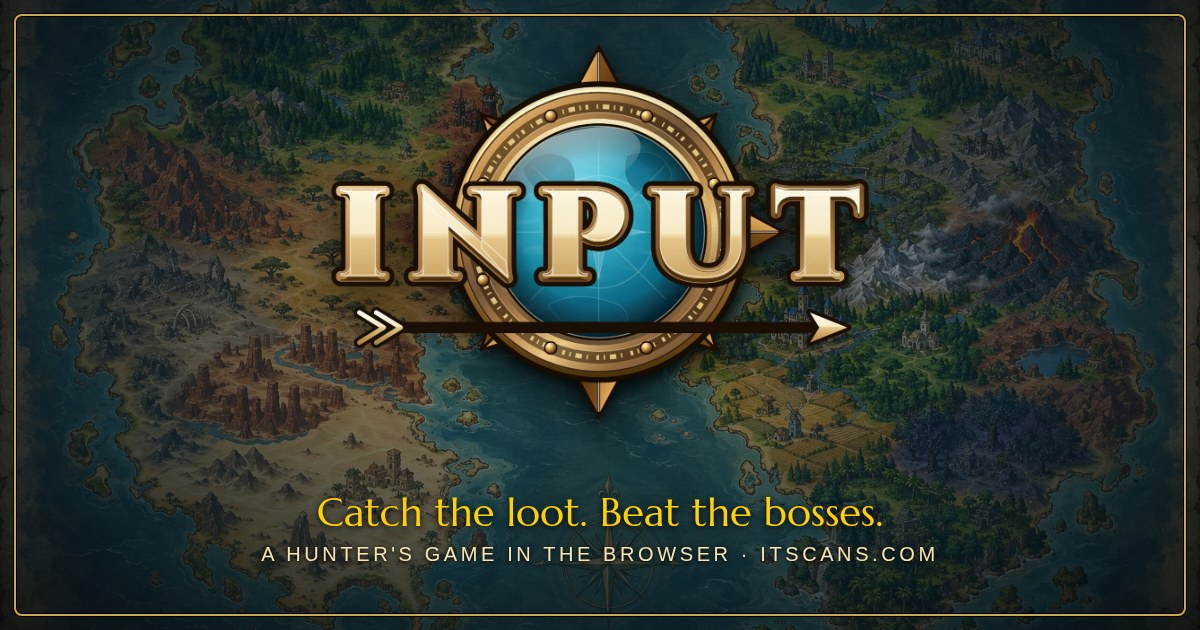
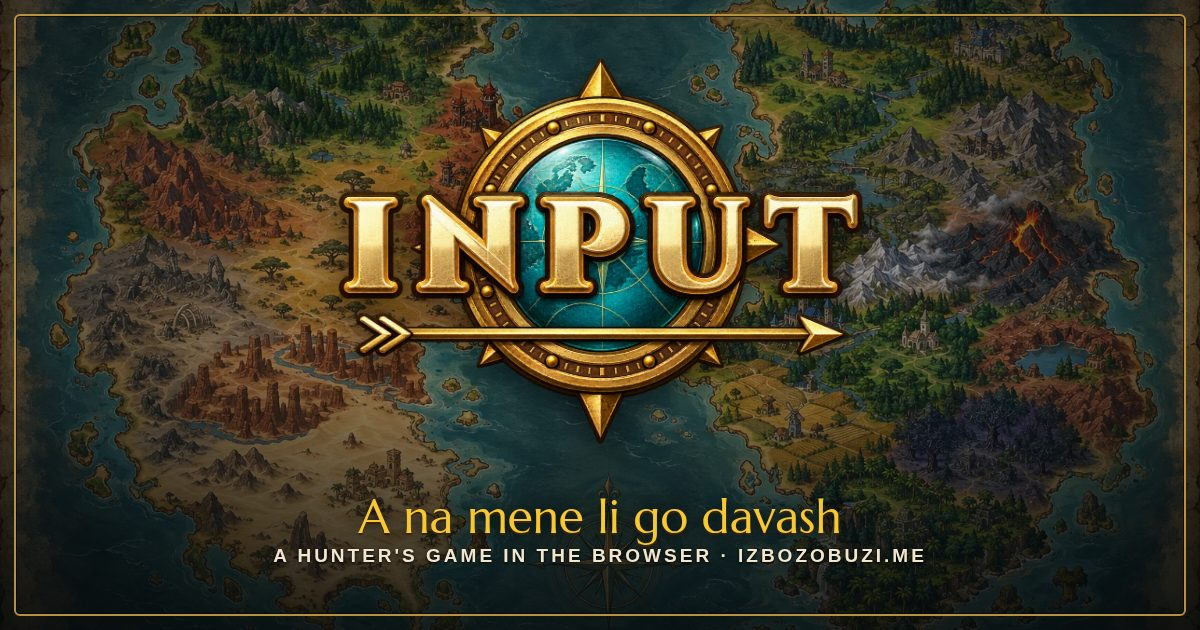
The share card's tagline: "A na mene li go davash"
The card shown when the site is shared, made again with the guild's own
line in place of the placeholder, and the game's address (izbozobuzi.me)
in place of the old one. Its source is now kept (resources/share-card),
rendered in Chrome with the game's own map, logo and font.

diff --git a/resources/share-card/card.html b/resources/share-card/card.html
@@ -1,0 +1,10 @@
+<!doctype html><html><head><meta charset="utf-8"><style>
+@font-face{font-family:Marcellus;src:url(../../game/assets/fonts/marcellus-latin.woff2) format('woff2')}
+html,body{margin:0;width:1200px;height:630px;overflow:hidden;background:#0b1418}
+.card{position:relative;width:1200px;height:630px;background:url(../../game/assets/ui/world-map.webp) center/cover}
+.card::before{content:"";position:absolute;inset:0;background:radial-gradient(ellipse at 50% 42%,rgba(5,12,16,.15) 0%,rgba(5,12,16,.55) 60%,rgba(3,8,10,.85) 100%),linear-gradient(to bottom,rgba(0,0,0,0) 55%,rgba(0,0,0,.55) 100%)}
+.frame{position:absolute;inset:14px;border:2px solid #b8913f;border-radius:6px;box-shadow:inset 0 0 0 1px rgba(0,0,0,.6)}
+.logo{position:absolute;left:50%;top:44px;width:560px;transform:translateX(-50%);filter:drop-shadow(0 8px 18px rgba(0,0,0,.65))}
+.tag{position:absolute;left:0;right:0;top:488px;text-align:center;font:46px Marcellus,serif;color:#f6c933;text-shadow:0 2px 0 #3a2400,0 0 18px rgba(0,0,0,.9)}
+.sub{position:absolute;left:0;right:0;top:546px;text-align:center;font:600 19px/1 'Liberation Sans',Arial,sans-serif;letter-spacing:3px;color:#f1e7cf;text-shadow:0 1px 3px #000}
+</style></head><body><div class="card"><div class="frame"></div><img class="logo" src="../../game/assets/ui/input-logo.webp"><div class="tag">A na mene li go davash</div><div class="sub">A HUNTER'S GAME IN THE BROWSER · IZBOZOBUZI.ME</div></div></body></html>
